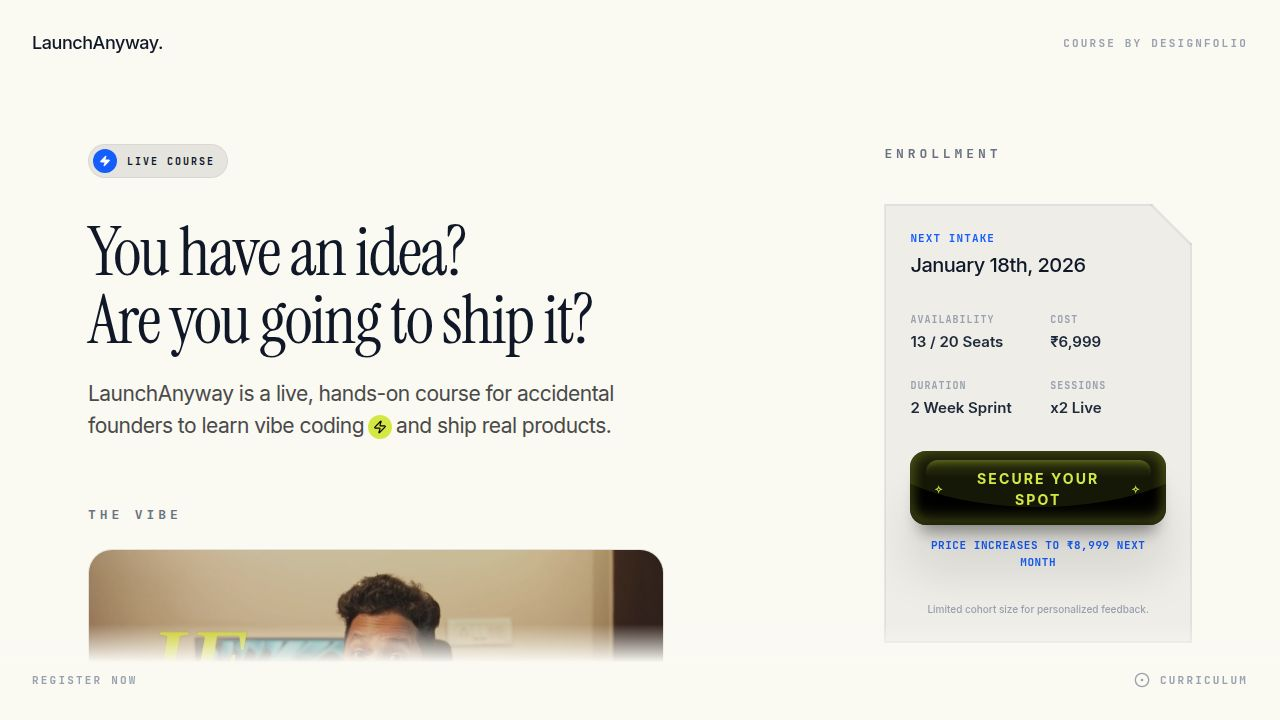
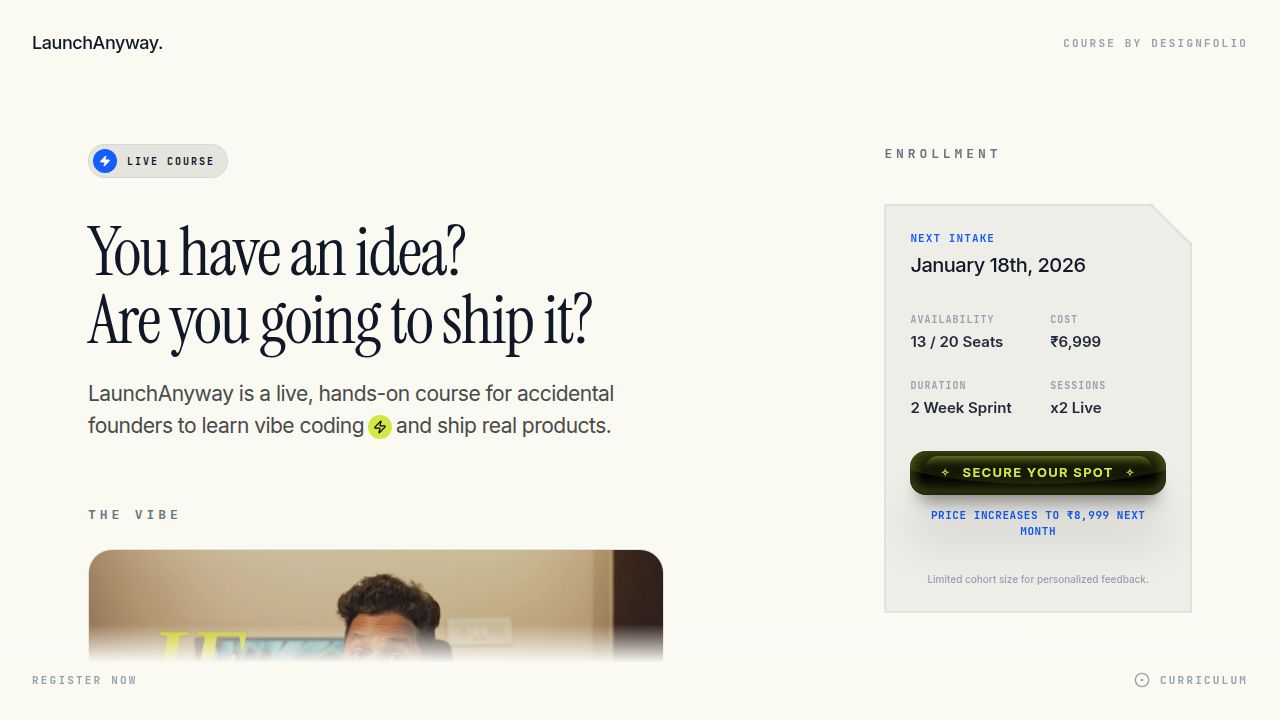
Refine application form footer and button for a leaner, integrated design
Adjust StardustButton padding, font size, and letter spacing; move submit section to a sticky footer with a rounded container in the EnrollmentModal.

Replit-Commit-Author: Agent
Replit-Commit-Session-Id: 7b62fa8e-5095-4d4c-8833-83edb673fbcd
Replit-Commit-Checkpoint-Type: full_checkpoint
Replit-Commit-Event-Id: 14a84c53-858b-4c1e-8fee-a46c838dd42f
Replit-Commit-Screenshot-Url: https://storage.googleapis.com/screenshot-production-us-central1/e2b16944-d152-4b09-bc23-bb1892fb1fea/7b62fa8e-5095-4d4c-8833-83edb673fbcd/WczXt9V
Replit-Helium-Checkpoint-Created: true

Changed region(s): [[0.6875, 0.6111, 0.9375, 0.8556]]

diff --git a/client/src/pages/home.tsx b/client/src/pages/home.tsx
@@ -220,16 +220,19 @@ const EnrollmentModal = ({ isOpen, onClose }: { isOpen: boolean, onClose: () => 
                   </div>
                 </div>
 
-                <div className="pt-6 sticky bottom-0 bg-[#FAF9F2] pb-2">
-                  <StardustButton onClick={() => {
-                    alert("Application Submitted! We'll be in touch within 4 hours.");
-                    onClose();
-                  }}>
-                    Submit Application
-                  </StardustButton>
-                  <p className="text-[10px] text-center text-gray-400 mt-4 uppercase tracking-widest font-bold">
-                    100% Secure • No Payment Required Yet
-                  </p>
+                {/* Submit Section */}
+                <div className="pt-4 pb-2 sticky bottom-0 bg-[#FAF9F2] z-30">
+                  <div className="bg-black/5 rounded-2xl p-4 border border-black/5">
+                    <StardustButton onClick={() => {
+                      alert("Application Submitted! We'll be in touch within 4 hours.");
+                      onClose();
+                    }}>
+                      Submit Application
+                    </StardustButton>
+                    <p className="text-[9px] text-center text-gray-400 mt-3 uppercase tracking-widest font-bold">
+                      100% Secure • No Payment Required Yet
+                    </p>
+                  </div>
                 </div>
               </form>
             </div>

diff --git a/client/src/components/ui/stardust-button.tsx b/client/src/components/ui/stardust-button.tsx
@@ -33,15 +33,15 @@ export const StardustButton: React.FC<StardustButtonProps> = ({
   };
 
   const wrapStyle = {
-    fontSize: '14px',
+    fontSize: '13px',
     fontWeight: 700,
     color: '#D4E845',
-    padding: '16px 24px',
+    padding: '12px 20px',
     borderRadius: 'inherit',
     position: 'relative',
     overflow: 'hidden',
     textTransform: 'uppercase' as const,
-    letterSpacing: '0.15em',
+    letterSpacing: '0.1em',
   };
 
   const pStyle = {
